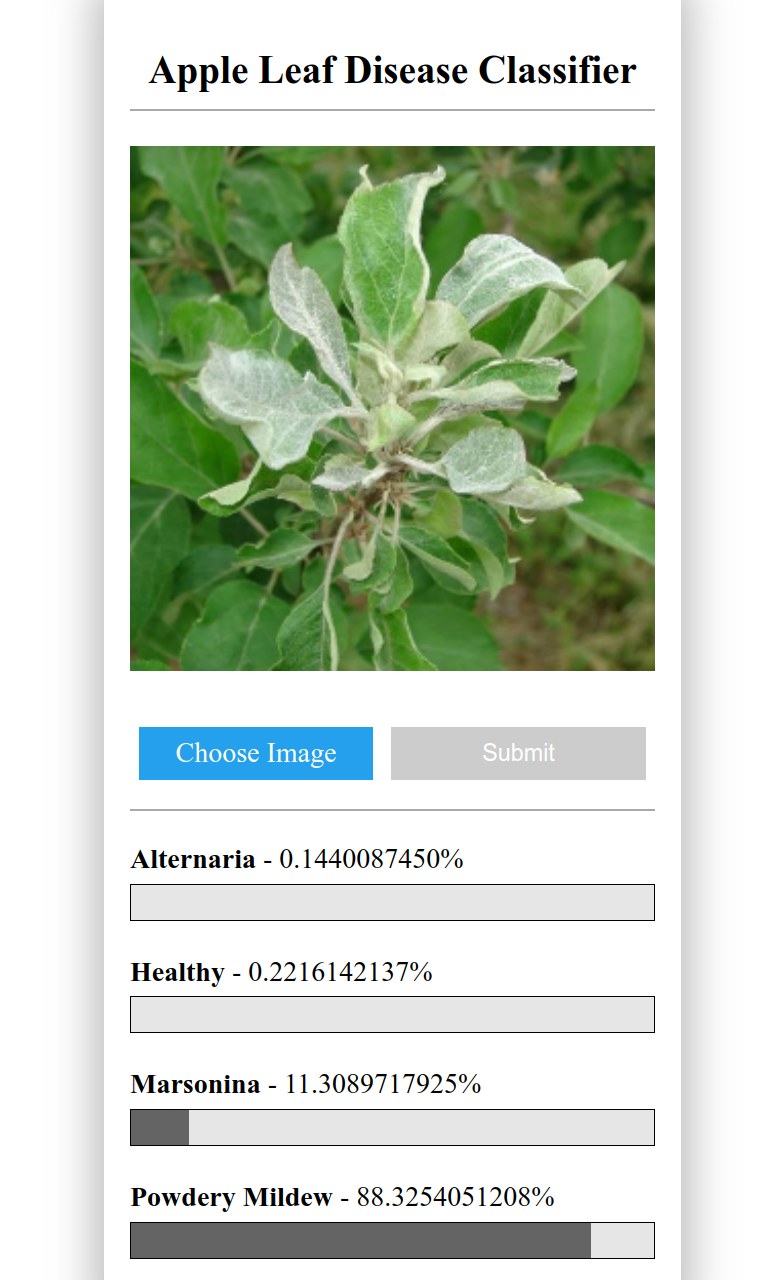
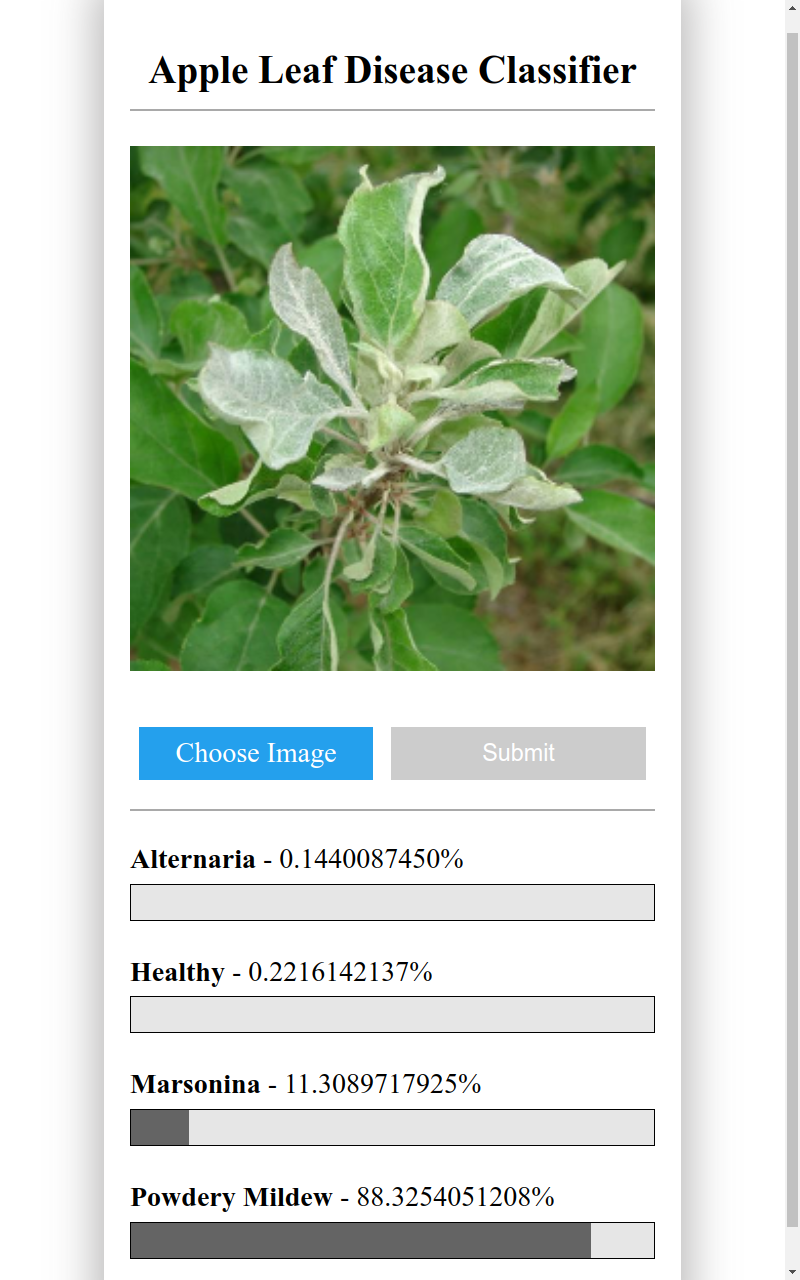
updated screenshots fixed broken repetitive images

diff --git a/readme.md b/readme.md
@@ -51,8 +51,8 @@ You can test the API using a web-based user interface (UI) by visiting the follo
 
 The UI allows you to upload images and view classification results. Below are screenshots of the UI:
 <p align="center">
-<img src = "screenshots/screenshot1.PNG">
-<img src = "screenshots/screenshot1.PNG">
+<img src = "screenshots/screenshot1.png" width=48%>
+<img src = "screenshots/screenshot2.png" width=48%>
 </p>
 
 ## Contributing
